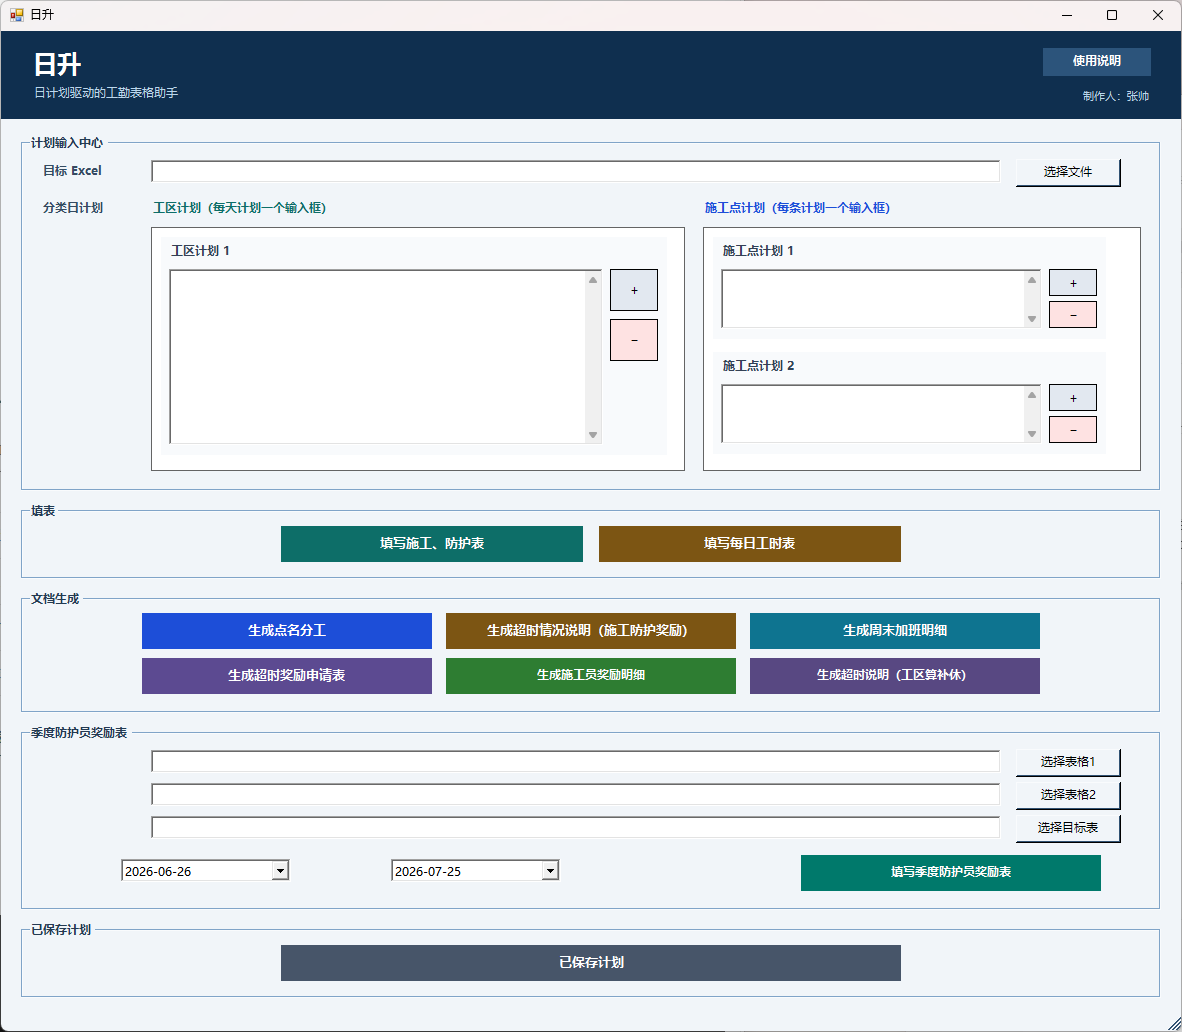
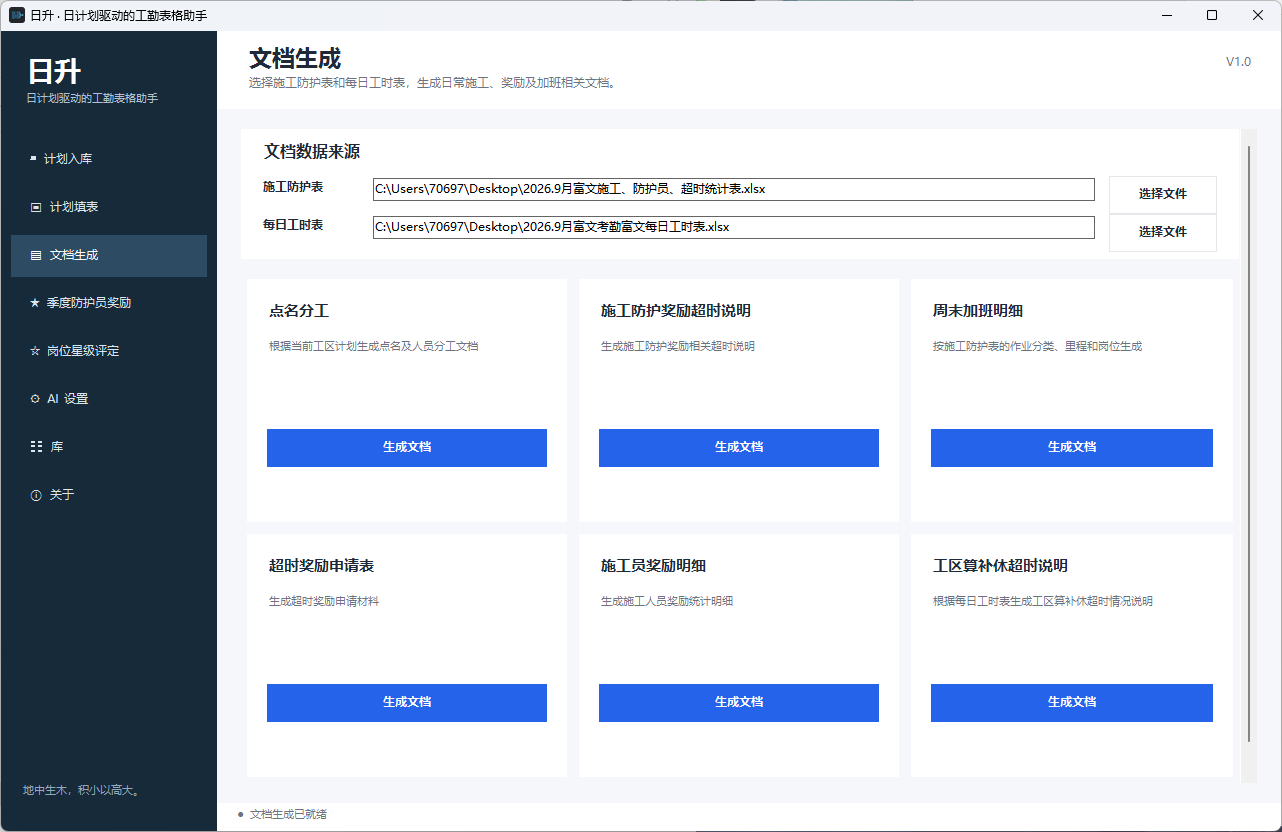
Refresh site for Risheng final fix

diff --git a/styles.css b/styles.css
@@ -17,7 +17,7 @@ nav { display:flex; align-items:center; gap:28px; margin-left:auto; } nav a { co
 .hero-kicker,.label { margin:0 0 12px; color:var(--accent); font-family:Arial,sans-serif; font-size:11px; font-weight:700; letter-spacing:1.6px; }
 h1,h2,h3,p { margin-top:0; } h1 { margin:0; font-size:43px; font-weight:400; line-height:1.45; letter-spacing:0; } .quote-source { margin:8px 0 0; font-size:22px; }
 .section { padding:110px 0; }.story-layout { display:grid; grid-template-columns:1fr 1.06fr; align-items:center; gap:76px; }.portrait-panel { display:flex; min-height:350px; flex-direction:column; align-items:center; justify-content:center; border:1px solid var(--line); background:#f1f1ed; color:var(--deep); }.about-icon { width:min(45%,170px); height:auto; image-rendering:auto; }.portrait-panel p { margin:18px 0 0; color:#8c8c82; font:10px Arial,sans-serif; letter-spacing:2px; }.story-copy { padding-right:12px; }.story-copy h2,.work-intro h2,.tools h2 { margin-bottom:22px; color:#174d54; font-size:30px; line-height:1.38; font-weight:500; }.story-copy p:not(.label) { color:#616161; font-size:14px; }
-.work { border-top:1px solid var(--line); background:#fafafa; }.work-intro { margin-bottom:44px; }.work-intro h2 { margin-bottom:8px; }.work-intro > p:last-child { color:var(--muted); font-size:14px; }.work-gallery { display:grid; width:min(1010px, calc(100% - 48px)); grid-template-columns:1fr 1fr; gap:28px; margin:0 auto; }.work-card { margin:0; overflow:hidden; border:1px solid #ddd; background:#fff; }.work-screen { display:block; width:100%; height:425px; object-fit:contain; background:#eef3f5; cursor:zoom-in; }.work-card figcaption { display:flex; flex-direction:column; gap:2px; padding:16px 18px; border-top:1px solid var(--line); }.work-card strong { color:#174d54; font-size:18px; font-weight:600; }.work-card figcaption span { color:#777; font-size:13px; }.work-preview { position:fixed; top:50%; z-index:30; display:none; padding:10px; background:#fff; border:1px solid #c8d0d4; box-shadow:0 18px 44px rgba(12,24,30,.28); pointer-events:none; transform:translateY(-50%); }.work-preview.is-visible { display:block; }.work-preview img { display:block; width:100%; height:auto; }
-.tools { color:#e6e6e6; background:#171717; }.tools-heading { margin-bottom:38px; }.tools h2 { margin-bottom:8px; color:#fff; }.tools-heading > p:last-child { margin-bottom:0; color:#aaa; font-size:14px; }.tool-cards { display:grid; grid-template-columns:1fr 1fr; gap:22px; }.tool-card { min-height:260px; padding:30px; border:1px solid #3a3a3a; background:#1d1d1d; }.tool-card .tool-number { margin-bottom:28px; color:var(--accent); font:700 11px Arial,sans-serif; letter-spacing:1.4px; }.tool-card h3 { margin-bottom:12px; color:#fff; font-size:22px; font-weight:500; }.tool-card > p:not(.tool-number) { min-height:75px; margin-bottom:24px; color:#bcbcbc; font-size:14px; }.tool-download { display:inline-block; padding-bottom:4px; color:var(--accent); border-bottom:1px solid var(--accent); text-decoration:none; font-size:14px; font-weight:700; }.template-section { margin-top:22px; padding:22px 30px; border:1px solid #3a3a3a; background:#1d1d1d; }.template-section > p { margin:0 0 10px; color:#888; font-size:11px; font-weight:700; letter-spacing:.8px; }.template-downloads { display:grid; grid-template-columns:1fr 1fr; gap:24px; }.template-downloads > a { display:flex; align-items:center; justify-content:space-between; gap:16px; padding:9px 0; color:#d5d5d5; border-bottom:1px solid #303030; text-decoration:none; font-size:13px; }.template-downloads > a:hover { color:#fff; }.template-downloads > a span { color:#777; font:11px Arial,sans-serif; }.usage-note { display:flex; align-items:baseline; gap:24px; margin-top:28px; color:#999; font-size:13px; }.usage-note strong { flex:none; color:#ddd; }.usage-note p { margin:0; }.footer-inner { display:flex; min-height:74px; align-items:center; justify-content:space-between; color:#9e9e9e; font-size:12px; }
+.work { border-top:1px solid var(--line); background:#fafafa; }.work-intro { margin-bottom:44px; }.work-intro h2 { margin-bottom:8px; }.work-intro > p:last-child { color:var(--muted); font-size:14px; }.work-gallery { display:grid; width:min(1010px, calc(100% - 48px)); grid-template-columns:1fr; gap:28px; margin:0 auto; }.work-card { margin:0; overflow:hidden; border:1px solid #ddd; background:#fff; }.work-screen { display:block; width:100%; height:auto; object-fit:contain; background:#eef3f5; cursor:zoom-in; }.work-card figcaption { display:flex; flex-direction:column; gap:2px; padding:16px 18px; border-top:1px solid var(--line); }.work-card strong { color:#174d54; font-size:18px; font-weight:600; }.work-card figcaption span { color:#777; font-size:13px; }.work-preview { position:fixed; top:50%; z-index:30; display:none; padding:10px; background:#fff; border:1px solid #c8d0d4; box-shadow:0 18px 44px rgba(12,24,30,.28); pointer-events:none; transform:translateY(-50%); }.work-preview.is-visible { display:block; }.work-preview img { display:block; width:100%; height:auto; }
+.tools { color:#e6e6e6; background:#171717; }.tools-heading { margin-bottom:38px; }.tools h2 { margin-bottom:8px; color:#fff; }.tools-heading > p:last-child { margin-bottom:0; color:#aaa; font-size:14px; }.tool-cards { display:grid; grid-template-columns:1fr; gap:22px; }.tool-card { min-height:260px; padding:30px; border:1px solid #3a3a3a; background:#1d1d1d; }.tool-card .tool-number { margin-bottom:28px; color:var(--accent); font:700 11px Arial,sans-serif; letter-spacing:1.4px; }.tool-card h3 { margin-bottom:12px; color:#fff; font-size:22px; font-weight:500; }.tool-card > p:not(.tool-number) { min-height:75px; margin-bottom:24px; color:#bcbcbc; font-size:14px; }.tool-download { display:inline-block; padding-bottom:4px; color:var(--accent); border-bottom:1px solid var(--accent); text-decoration:none; font-size:14px; font-weight:700; }.template-section { margin-top:22px; padding:22px 30px; border:1px solid #3a3a3a; background:#1d1d1d; }.template-section > p { margin:0 0 10px; color:#888; font-size:11px; font-weight:700; letter-spacing:.8px; }.template-downloads { display:grid; grid-template-columns:1fr 1fr; gap:24px; }.template-downloads > a { display:flex; align-items:center; justify-content:space-between; gap:16px; padding:9px 0; color:#d5d5d5; border-bottom:1px solid #303030; text-decoration:none; font-size:13px; }.template-downloads > a:hover { color:#fff; }.template-downloads > a span { color:#777; font:11px Arial,sans-serif; }.usage-note { display:flex; align-items:baseline; gap:24px; margin-top:28px; color:#999; font-size:13px; }.usage-note strong { flex:none; color:#ddd; }.usage-note p { margin:0; }.footer-inner { display:flex; min-height:74px; align-items:center; justify-content:space-between; color:#9e9e9e; font-size:12px; }
 @media (max-width:1050px) { .work-preview { display:none !important; } }
 @media (max-width:760px) { .container { width:min(100% - 34px, 1010px); }.site-header,.nav { height:60px; }.brand { min-width:0; font-size:14px; }.brand-name small { display:none; } nav { display:none; }.nav-download { margin-left:auto; font-size:12px; }.hero { min-height:500px; } h1 { font-size:31px; }.quote-source { font-size:18px; }.section { padding:72px 0; }.story-layout,.work-gallery,.tool-cards,.template-downloads { grid-template-columns:1fr; gap:34px; }.work-gallery { width:min(100% - 34px, 1010px); }.work-screen { height:340px; }.portrait-panel { min-height:255px; }.about-icon { width:min(42%,150px); }.story-copy { padding:0; }.tool-card { min-height:0; padding:25px; }.template-section { padding:22px 25px; }.tool-card > p:not(.tool-number) { min-height:0; }.usage-note { align-items:flex-start; flex-direction:column; gap:5px; }.footer-inner { min-height:62px; } }

diff --git a/index.html b/index.html
@@ -5,7 +5,7 @@
   <meta name="viewport" content="width=device-width, initial-scale=1">
   <meta name="description" content="张帅的工作方法、个人介绍与一键工作程序下载。">
   <title>张帅的工作页面</title>
-  <link rel="stylesheet" href="styles.css?v=20260731-2">
+  <link rel="stylesheet" href="styles.css?v=20260831">
 </head>
 <body>
   <header class="site-header">
@@ -17,7 +17,7 @@
         <a href="#work">作品</a>
         <a href="#tools">工具</a>
       </nav>
-      <a class="nav-download" href="https://github.com/706975313-ui/zhangshuai-work-page/releases/download/risheng-latest-v1/risheng-latest.zip?updated=20260801">下载最新版</a>
+      <a class="nav-download" href="https://github.com/706975313-ui/zhangshuai-work-page/releases/download/risheng-latest-v1/risheng-latest.zip?updated=20260831">下载最新版</a>
     </div>
   </header>
 
@@ -50,7 +50,6 @@
       </div>
       <div class="container work-gallery">
         <figure class="work-card"><img class="work-screen" src="assets/risheng-app.png" alt="日升程序主界面"><figcaption><strong>日升</strong><span>日计划驱动的工勤表格助手</span></figcaption></figure>
-        <figure class="work-card"><img class="work-screen" src="assets/job-rating-app.png" alt="岗位星级评定自动填表程序主界面"><figcaption><strong>岗位星级评定自动填表</strong><span>智能识别与自动汇总的离线填表工具</span></figcaption></figure>
       </div>
     </section>
 
@@ -58,20 +57,14 @@
       <div class="container tools-heading">
         <p class="label">OFFLINE TOOLS</p>
         <h2>工具下载</h2>
-        <p>两款工具暂时只支持 PC 端 Windows 系统使用，均可离线运行，下载并完整解压后即可使用。</p>
+        <p>本工具暂时只支持 PC 端 Windows 系统使用，可离线运行，下载并完整解压后即可使用。</p>
       </div>
       <div class="container tool-cards">
         <article class="tool-card">
           <p class="tool-number">01</p>
           <h3>一键工作程序</h3>
           <p>集中处理施工计划、每日工时表、超时情况说明和周末加班明细等日常资料。</p>
-          <a class="tool-download" href="https://github.com/706975313-ui/zhangshuai-work-page/releases/download/risheng-latest-v1/risheng-latest.zip?updated=20260801">下载日升最新版 <span aria-hidden="true">↓</span></a>
-        </article>
-        <article class="tool-card">
-          <p class="tool-number">02</p>
-          <h3>岗位星级评定自动填表</h3>
-          <p>用于岗位星级评定资料的自动填写，减少重复录入，便于完成后继续核对。</p>
-          <a class="tool-download" href="https://github.com/706975313-ui/zhangshuai-work-page/releases/download/job-rating-tool-v1/job-rating-autofill.zip?updated=20260801">下载离线版 <span aria-hidden="true">↓</span></a>
+          <a class="tool-download" href="https://github.com/706975313-ui/zhangshuai-work-page/releases/download/risheng-latest-v1/risheng-latest.zip?updated=20260831">下载日升最新版 <span aria-hidden="true">↓</span></a>
         </article>
       </div>
       <div class="container template-section">
